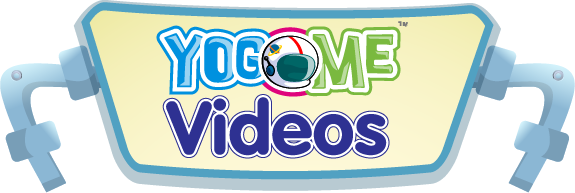
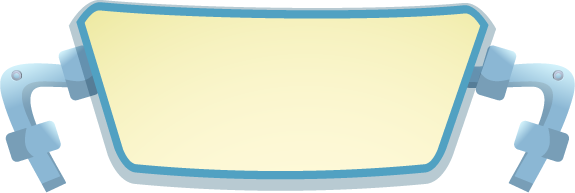
commit videos changes

diff --git a/webisodes.html b/webisodes.html
@@ -183,7 +183,11 @@
 -->
             <div class="bg-zip">
                 <div id="title-videos">
-                    <img src="assets/images/title_videos.png"/>
+                    <img src="assets/images/title_videos.png" relativestyle="" style=" position: absolute; display: block; left:26%; width: 50%;"/>
+                    <div class="title-image" style="position:relative; left: 35%; width:30%; padding-top:2% " >
+                        <img src="assets/images/logo-yogome.png" style="display: inline-block; width:60%"/>
+                        <img id="videoName" src="assets/images/videos_ES.png" style="display: inline-block; top:16%; width:40%"/>
+                    </div>
                 </div>
             <section  class="container-fluid bg-webisodes-main webPageSection">
                     <div class="row">
@@ -277,6 +281,15 @@ function getParameterByName(name, url) {
             $("nav").hide();
             $(".bg-zip").addClass("newBg-zip");
         }
+
+
+  function setVideoImage(){
+      var name = "assets/images/videos_"+language+".png";
+      $("#videoName").attr("src",name);
+
+    }
+
+    setVideoImage();
         
     </script>
 

diff --git a/assets/css/webisodes.css b/assets/css/webisodes.css
@@ -18,7 +18,7 @@ footer{
 }
 #title-videos img{
     width: 40%;
-    max-width: 540px
+    max-width: 540px;
 }
 
 
@@ -49,14 +49,15 @@ footer{
     color: #FFF;
     transform: rotate(-40deg);
     position: absolute;
-    top:30%;
+    top:60%;
     left:10%
     z-index: 1;
+    transform-origin: 0% 0%;
 }
 
 .title-name-video{
     text-align: center;
-    font-size: 3vw;
+    font-size: 2vw;
     font-family: 'Luckiest Guy';
     color:#000 ;
     padding: 2vh;
@@ -269,6 +270,11 @@ background-image: url(../images/container_full.png);
     background-image: url(../images/pattern-our-apps.png);
     background-color: #4D9CE8;
     
+}
+
+.title-image{
+    position:absolute;
+    transform-origin: 50% 50%;
 }
 
 
